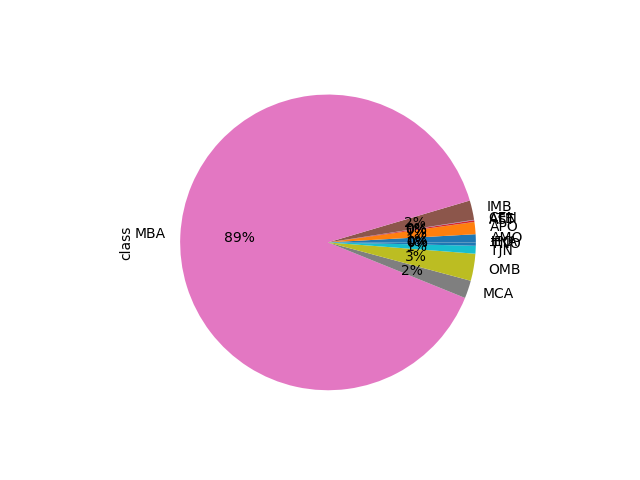
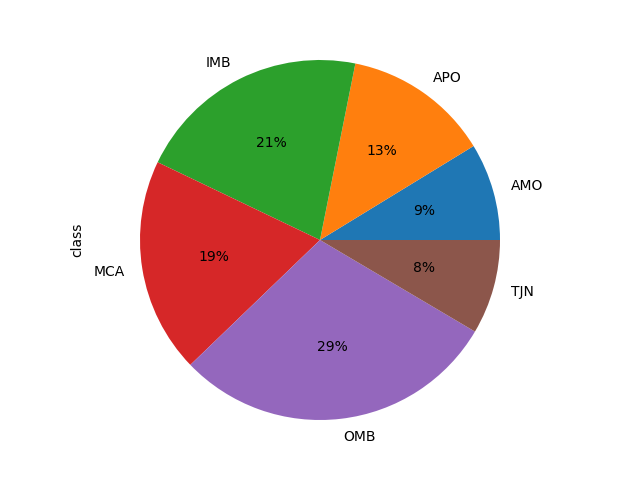
correction plot

diff --git a/sixth/5/plot_5.py b/sixth/5/plot_5.py
@@ -42,10 +42,13 @@ dataset.info(memory_usage='deep')
 # plot = sns.histplot(data=grouped_df, x="H", hue="H", bins=100)
 # plot.get_figure().savefig(os.path.join(res_file, os.path.normpath('H_mean.png')))
 
-# круговая
-# d2 = dataset.groupby(['class'])['class'].count()
-# circ = d2.plot(kind='pie', y=d2.keys(), autopct='%1.0f%%', title='')
-# circ.get_figure().savefig(os.path.join(res_file, os.path.normpath('class.png')))
+# круговая, без наиболее распространенного класса и наименее распространенных
+data = dataset[dataset['class'] != 'MBA']
+d2 = data.groupby(['class'])['class'].count()
+d2 = d2[d2 > len(data) * 0.05]
+circ = d2.plot(kind='pie', y=d2.keys(), autopct='%1.0f%%', title='')
+plt.tight_layout()
+circ.get_figure().savefig(os.path.join(res_file, os.path.normpath('class.png')))
 
 # ящик с усами
 # plot = sns.boxplot(data=dataset, x='diameter', y='class')

diff --git a/sixth/6/plot_6.py b/sixth/6/plot_6.py
@@ -32,7 +32,9 @@ dataset = pd.read_csv(first, usecols=lambda x: x in need_dtypes.keys(),
 dataset.info(memory_usage='deep')
 
 # столбчатый тип, штаты
+# plt.figure(figsize=(15, 6))
 # plot = sns.histplot(data=dataset, x="State", bins=100)
+# plt.xticks(rotation=45)
 # plot.get_figure().savefig(os.path.join(res_file, os.path.normpath('State.png')))
 
 # часовые пояса, круговая

diff --git a/sixth/2/plot_2.py b/sixth/2/plot_2.py
@@ -33,6 +33,7 @@ dataset.info(memory_usage='deep')
 
 # распределение по моделям, столбчатый тип
 # plot = sns.histplot(data=dataset, x="modelName", hue="modelName", bins=100)
+# plt.xticks(rotation=45)
 # plot.get_figure().savefig(os.path.join(res_file, os.path.normpath('modelName.png')))
 
 # бренды, круговая
